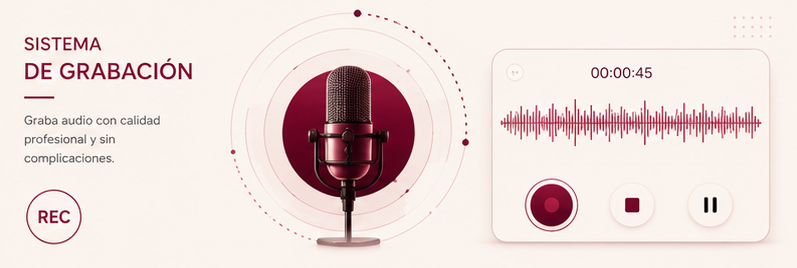
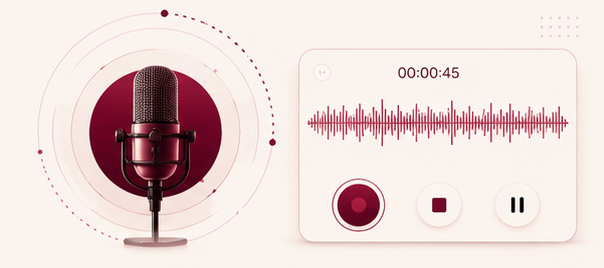
Configuración de las imágenes y su orden

diff --git a/indexsp.html b/indexsp.html
@@ -267,7 +267,7 @@
             <div class="carousel-item active">
 
                 <img
-                    src="img/v6.png"
+                    src="img/vista.png"
                     alt="Vista de Lyrics">
 
             </div>
@@ -277,7 +277,7 @@
             <div class="carousel-item">
 
                 <img
-                    src="img/v8.png"
+                    src="img/vector2.png"
                     alt="Editor musical de Lyrics">
 
             </div>
@@ -287,7 +287,7 @@
             <div class="carousel-item">
 
                 <img
-                    src="img/v5.png"
+                    src="img/sistema.png"
                     alt="Sistema de grabación de Lyrics">
 
             </div>
@@ -297,7 +297,7 @@
             <div class="carousel-item">
 
                 <img
-                    src="img/v6.png"
+                    src="img/img6.jpg"
                     alt="Herramientas musicales de Lyrics">
 
             </div>
@@ -1578,45 +1578,6 @@
 
                     </div>
 
-
-
-                    <!-- ADMINISTRADOR -->
-
-                    <div class="col-md-6 col-lg-3">
-
-
-                        <article class="user-card">
-
-
-                            <span>
-
-                                04
-
-                            </span>
-
-
-                            <h3>
-
-                                Administrador
-
-                            </h3>
-
-
-                            <p>
-
-                                Para gestionar y controlar
-                                el funcionamiento general
-                                de la plataforma.
-
-                            </p>
-
-
-                        </article>
-
-
-                    </div>
-
-
                 </div>
 
             </div>
@@ -1679,7 +1640,7 @@
                         <div class="carousel-item active">
 
                             <img
-                                src="img/vectorf.png"
+                                src="img/img7.png"
                                 class="carousel-image"
                                 alt="Vista de Lyrics">
 
@@ -1691,7 +1652,7 @@
                         <div class="carousel-item">
 
                             <img
-                                src="img/v9.png"
+                                src="img/pic5.jpg"
                                 class="carousel-image"
                                 alt="Experiencia visual de Lyrics">
 
@@ -1703,28 +1664,11 @@
                         <div class="carousel-item">
 
                             <img
-                                src="img/vector4.png"
+                                src="img/vector.png"
                                 class="carousel-image"
                                 alt="Sistema de grabación">
 
                         </div>
-
-
-                        <!--
-                        =================================================
-                        ESPACIO PARA MÁS IMÁGENES
-                        =================================================
-
-                        <div class="carousel-item">
-
-                            <img
-                                src="img/TU-IMAGEN.png"
-                                class="carousel-image"
-                                alt="Descripción">
-
-                        </div>
-
-                        -->
 
                     </div>
 
